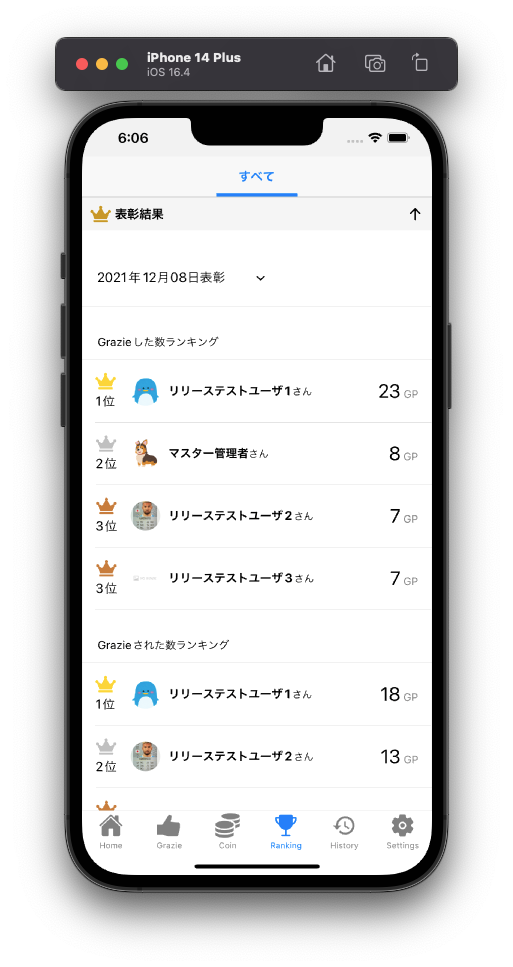
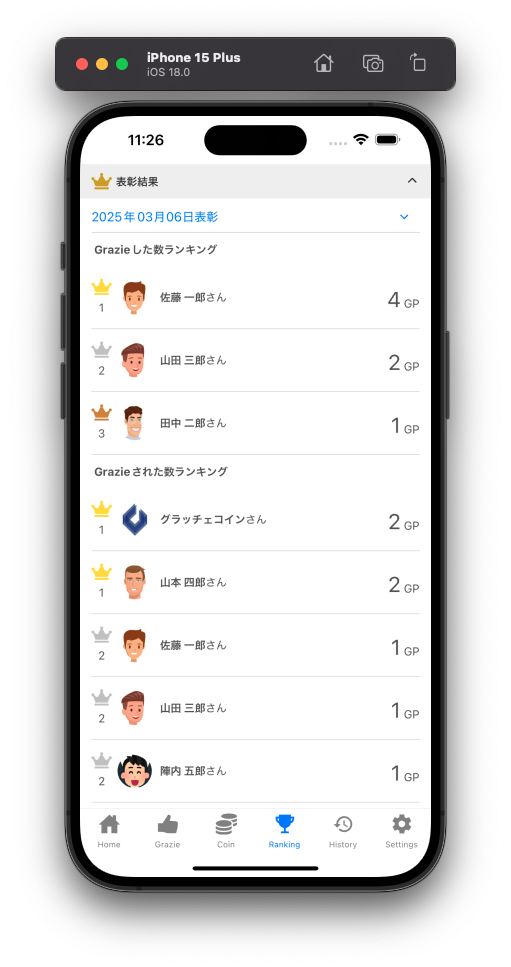
2025/3リリース

diff --git a/docs/app/index.md b/docs/app/index.md
@@ -29,6 +29,25 @@
   - Android : 指紋認証、顔認証が利用できます
     - 画面上のラベルは「指紋認証」「顔認証」と表示されます
 
+### :material-new-box: パスワード再設定
+##### 1.パスワード入力欄の右下にある「パスワード忘れた？」をタップしてください
+
+<img alt="ログイン" src="img/login2.png" width="300">
+
+##### 2.ログインに使用しているメールアドレスを入力し「送信」をタップしてください
+
+<img alt="ログイン" src="img/login3.png" width="300">
+
+##### 3.メールの本文に記載されているリンクをクリックしてください
+
+**※入力したメールアドレス宛に以下のメールが送信されます**
+
+<img alt="ログイン" src="img/login4.png" width="500">
+
+##### 4.新しいパスワードを入力し「保存」を選択することでパスワードを再設定することができます
+
+<img alt="ログイン" src="img/login5.png" width="500">
+
 ## Home
 ご利用中のユーザの情報を表示する画面です。ログイン後に最初に表示されます。
 
@@ -41,7 +60,7 @@
   - 自分が送った/受け取ったグラッチェまたはコインの履歴を表示します。
 
 ### グラッチェを送る(メッセージ入力)画面へ移動　
-  - グラッチェの直近5件の取引履歴に表示されているユーザ名の下部にある「返信」をタップすると、表示されているユーザにグラッチェすることができます
+  - グラッチェの直近5件の取引履歴に表示されているユーザ名の下部にある「返信」or「送る」をタップすると、表示されているユーザにグラッチェすることができます
 
 <img alt="Home" src="img/home.png" width="300">
 <img alt="Home" src="img/home2.png" width="300">
@@ -50,7 +69,7 @@
   - グラッチェの直近5件の取引履歴に表示されているメッセージの右下にある「続きを見る」をタップすると、メッセージの全文が表示されます
   - メッセージ数によっては表示されません
 
-<img alt="Home" src="img/home.png" width="300">
+<img alt="Home" src="img/home4.png" width="300">
 <img alt="Home" src="img/home3.png" width="300">
 
 
@@ -132,16 +151,29 @@
 <img alt="商品選択" src="img/coin6.png" width="300">
 
 
-## Ranking
+## :material-new-box: Ranking
 過去の集計結果、その日のグラッチェをした/されたユーザをランキング形式で表示する画面です。
 グラッチェ集計の表彰ランキングと、サービス利用開始から通算のランキングと、1日ごとのランキングを表示します。
-タブを切り替えるとサービスを利用する組織全体や事業所ごとの表示になります。
-※サービス契約区分が会社の場合は「事業所」タブは表示されません
+プルダウンを切り替えるとサービスを利用する組織全体や事業所ごとの表示になります。
 
+### 表彰結果ランキング
 <img alt="表彰結果ランキング" src="img/ranking.png" width="300">
+
+### 過去の表彰結果へ切り替え
+<img alt="デイリーランキング" src="img/ranking6.png" width="300">
+<img alt="デイリーランキング" src="img/ranking7.png" width="300">
+
+### 総保有ランキング
 <img alt="総保有ランキング" src="img/ranking2.png" width="300">
+
+### デイリーランキング
 <img alt="デイリーランキング" src="img/ranking3.png" width="300">
-<img alt="事業所別ランキング" src="img/ranking4.png" width="300">
+
+### 事業所の切り替え
+**※サービス契約区分が会社の場合は「事業所」タブは表示されません**
+
+<img alt="デイリーランキング" src="img/ranking4.png" width="300">
+<img alt="デイリーランキング" src="img/ranking5.png" width="300">
 
 ## History
 組織全体のグラッチェやコイン送金、商品交換の履歴を表示する画面です。
@@ -195,6 +227,7 @@
 ※ 所属している会社/事業所の公開設定が「やりとりユーザのみ公開」かつ一般ユーザの場合は使用できません。
 
 <img alt="「自分のみ」絞り込み" src="img/history5.png" width="300">
+<img alt="「自分のみ」絞り込み" src="img/history8.png" width="300">
 
 ## Settings
 

diff --git a/docs/管理者機能/集計・表彰/total03.md b/docs/管理者機能/集計・表彰/total03.md
@@ -14,7 +14,7 @@
 | :---: | :--------------------------- | :---: | :------------------------------------------------------------------------------------------------------------------------------------------ |
 |   1   | 1〜3位以外を表彰するボタン   |   -   | ボタンを押すと4〜10位までの表彰有無スイッチがONに切り替わります。<br>ボタンを押した後は、ボタン名が`1〜3位以外を表彰しないボタン`になります |
 |   2   | 1〜3位以外を表彰しないボタン |   -   | ボタンを押すと4〜10位までの表彰有無スイッチがOFFに切り替わります。<br>ボタンを押した後は、ボタン名が`1〜3位以外を表彰するボタン`になります  |
-|   3   | :new: コイン有無スイッチ                         |   ○   | ONにするとコイン送金を行います。OFFの場合はコイン送金を行いません。                                                                                                                                    |
+|   3   |  コイン有無スイッチ                         |   ○   | ONにするとコイン送金を行います。OFFの場合はコイン送金を行いません。                                                                                                                                    |
 |   4   | 順位                         |   ○   | 順位です                                                                                                                                    |
 |   5   | 賞金金額                     |   ○   | 順位に該当するユーザへ配布するコインの数を入力します                                                                                        |
 |   6   | コインあり/なしスイッチ             |   -   | ONにすると順位に該当するユーザにコインを送ります。OFFの場合は送金対象外になりコインは送られません。                                         |
@@ -27,6 +27,6 @@
 ### コインを送金して表彰する
 <iframe src="https://scribehow.com/embed/__pwUHrjKoQgWpIx4ElASClg" width="640" height="640" allowfullscreen frameborder="0"></iframe>
 
-### :new: コインを送金しないで表彰する
+###  コインを送金しないで表彰する
 
 <iframe src="https://scribehow.com/embed/__SRk8pn79RNOJV2r_nUvydw" width="640" height="640" allowfullscreen frameborder="0"></iframe>

diff --git a/docs/一般機能/History/history01.md b/docs/一般機能/History/history01.md
@@ -7,7 +7,7 @@
         - 詳細は[履歴公開設定](../../管理者機能/その他設定/other04.md)をご確認ください
     - 特定の履歴だけを非表示にすることは**できません**
     - ログイン中のユーザは緑色で表示されます
-    - :new:ログイン中のユーザ以外のユーザは青色で表示され、下線が引かれています  
+    - ログイン中のユーザ以外のユーザは青色で表示され、下線が引かれています  
     押下することでグラッチェすることができます
 
 ## 画面
@@ -32,9 +32,9 @@
 |   1   | ポイント履歴タブ |   -   | タブを押すとポイント履歴を表示します                                                                                                                                   |
 |   2   | [コイン履歴タブ](./history02.md)   |   -   | タブを押すとコイン履歴を表示します                                                                                                                                     |
 |   3   | 取引時刻         |   -   | グラッチェした・された日時が表示されます |
-|   4   | 送信ユーザ   |   -   | :new:下線が引かれている場合、[押下する事でグラッチェできます](../../GraziePoint/grazie02/#_4)      |
+|   4   | 送信ユーザ   |   -   | 下線が引かれている場合、[押下する事でグラッチェできます](../../GraziePoint/grazie02/#_4)      |
 |   5   | メッセージ   |   -   | 絞り込みたい日付を入力します      |
-|   6   | 受信ユーザ   |   -   | :new:下線が引かれている場合、[押下する事でグラッチェできます](../../GraziePoint/grazie02/#_4)      |
+|   6   | 受信ユーザ   |   -   | 下線が引かれている場合、[押下する事でグラッチェできます](../../GraziePoint/grazie02/#_4)      |
 |   7   | 検索する日付   |   -   | 絞り込みたい日付を入力します      |
 |   8   | ユーザIDまたはユーザ名入力フォーム   |   -   | 絞り込みたいユーザIDまたはユーザ名に含まれている文字を入力します      |
 |   9   | 絞り込むボタン   |   -   | ボタンを押すと入力された条件から履歴を絞り込んで表示します      |

diff --git a/docs/releasenote/index.md b/docs/releasenote/index.md
@@ -1,6 +1,19 @@
 # リリースノート
 
-## :new: 2024年11月アップデート内容
+## :material-new-box: 2025年3月アップデート内容
+
+- ***変更点***
+    - スマホアプリ版
+        - [<u>パスワード再発行機能の追加</u>](../app/index.md#_3)
+            - ログイン画面からパスワード再発行のメールを送信できるようになります。
+        - [<u>ランキング画面の操作性向上</u>](../app/index.md#ranking)
+            - 事業所の切り替え方法をタブからプルダウンに変更しました。
+        - **アプリのパフォーマンス向上**
+            - デザインを一部改善し、よりスムーズに操作できるようになりました。
+    - Web版
+        - 変更はございません。
+
+##  2024年11月アップデート内容
 
 - ***変更点***
     - **マスターアカウントの[<u>追加</u>](../管理者機能/ユーザ/user02.md)・[<u>変更</u>](../管理者機能/ユーザ/user03.md)・削除機能の実装(Web版)**

diff --git a/docs/管理者機能/ユーザ/user04.md b/docs/管理者機能/ユーザ/user04.md
@@ -37,7 +37,7 @@
 
 
 
-## :new: CSVファイルについて
+##  CSVファイルについて
 
 - CSVファイル（データがカンマ区切り、拡張子が.csv）の内容をユーザ情報に変換し一括登録します
 
@@ -45,7 +45,7 @@
 
 - 事業所または部署が無い場合、該当箇所に 空文字を設定してください
 
-:new:　**※2024年10月のアップデートにより、空行が含まれていてもアプリ側が空行を自動的に排除するようになりました**
+　**※2024年10月のアップデートにより、空行が含まれていてもアプリ側が空行を自動的に排除するようになりました**
 
 | ユーザ名 | メールアドレス | 事業所 | 部署 | 権限                       |
 | -------- | -------------- | ------ | ---- | -------------------------- |
